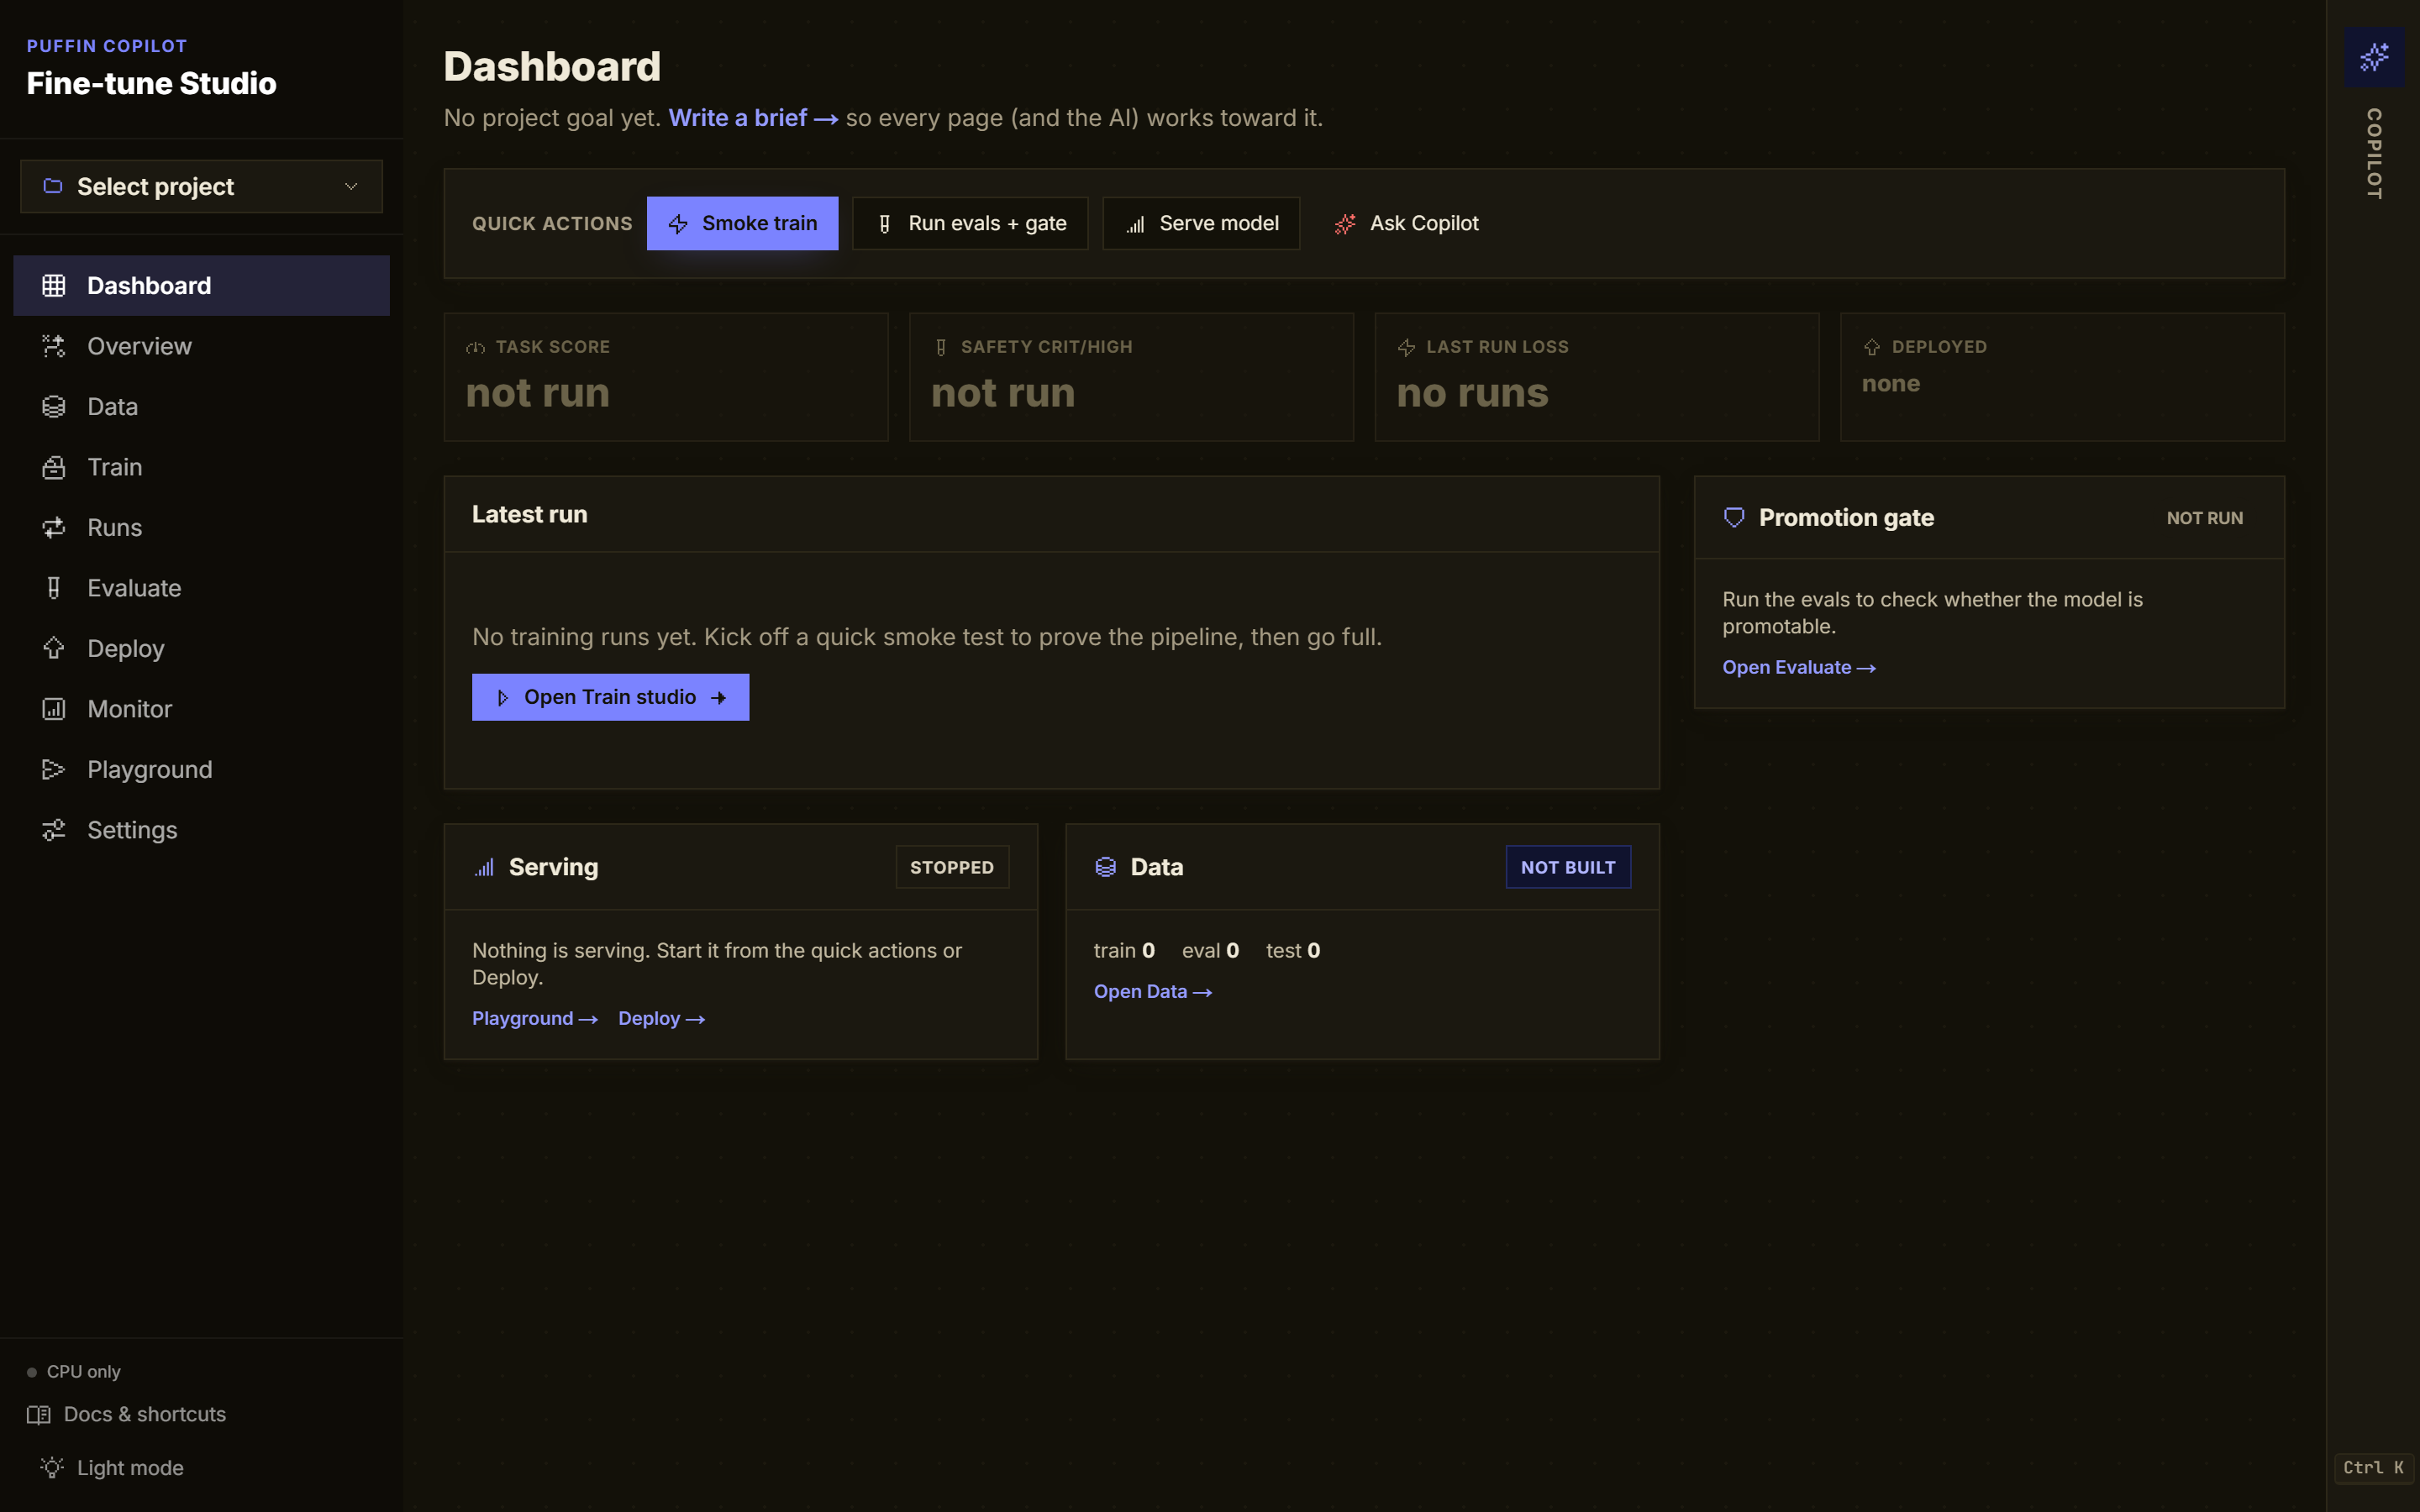
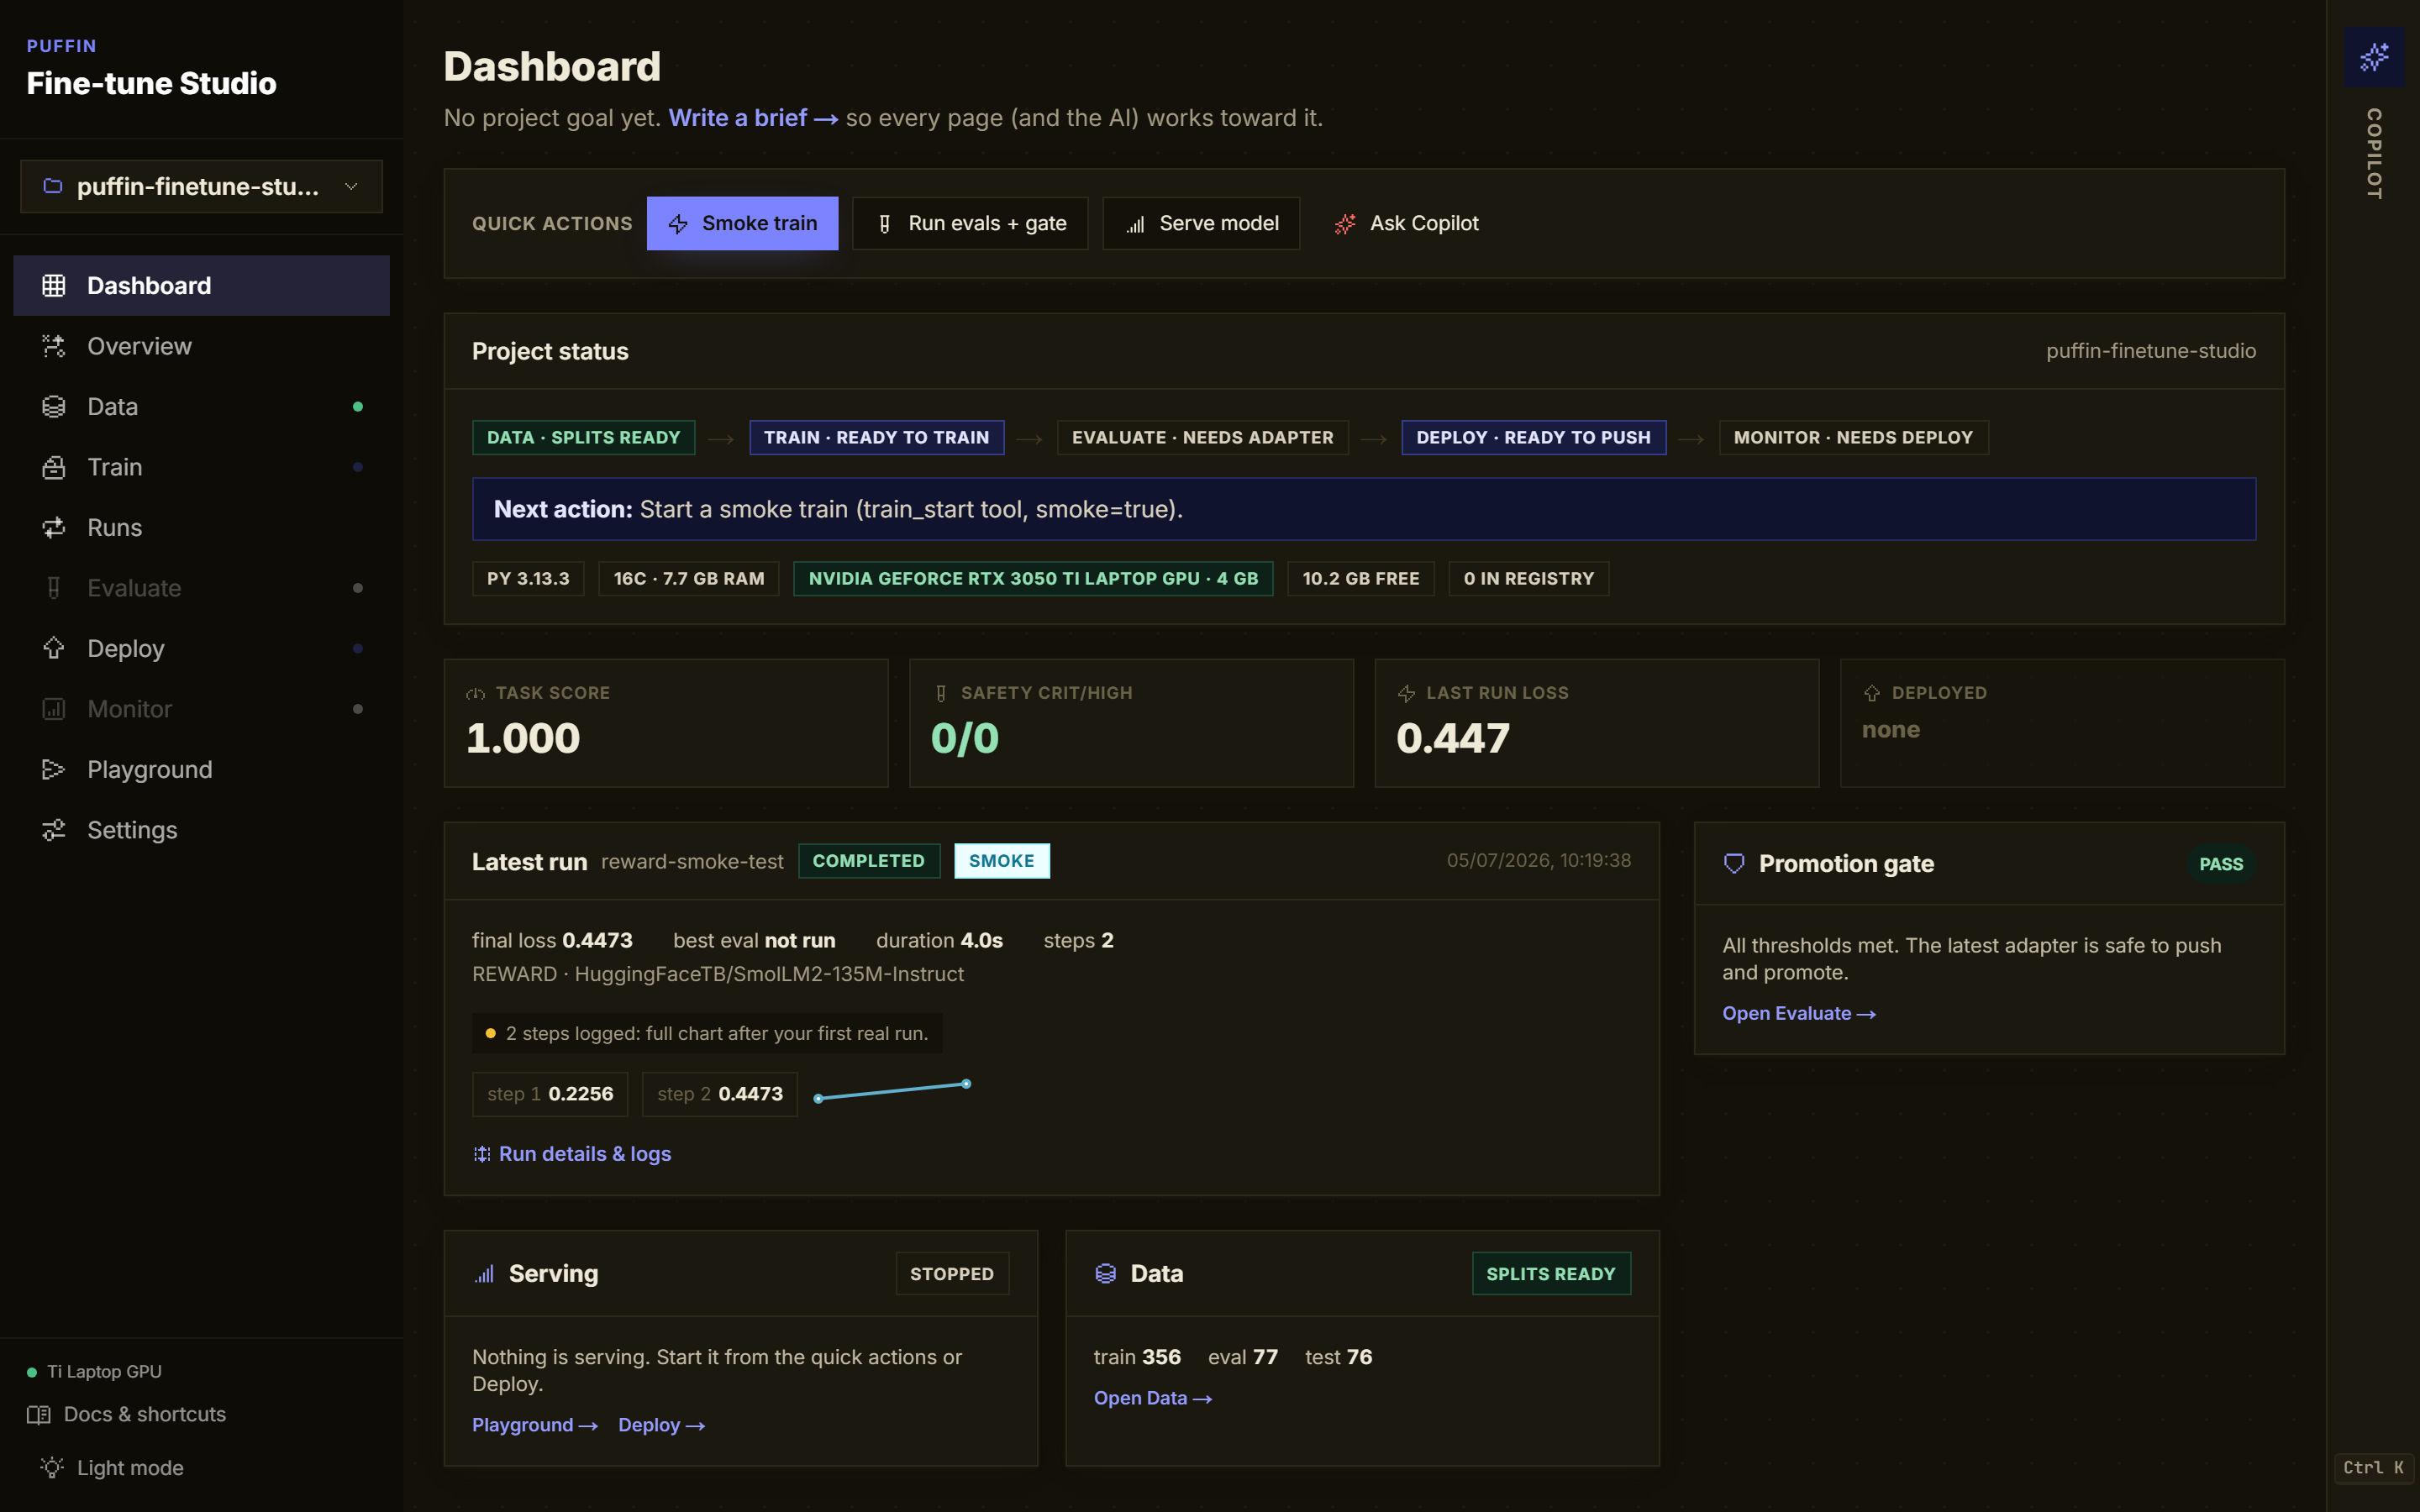
brand: rename the product to Puffin Studio (AI chat stays "Copilot")
- UI: sidebar eyebrow -> "Puffin", browser title + loading -> "Puffin Studio";
  chat assistant label + system prompt keep "Copilot".
- Backend: FastAPI title, launcher/main descriptions, and ready message ->
  Puffin Studio (console scripts unchanged).
- copilot/README retitled; prod smoke test asserts "Puffin Studio".
- Rebuilt static export + re-captured dashboard/train-studio/monitor
  screenshots with the new branding (dashboard now shows a real run).
- Bump version to 0.2.0; CHANGELOG entry.

diff --git a/copilot/frontend/components/layout/Sidebar.tsx b/copilot/frontend/components/layout/Sidebar.tsx
@@ -95,7 +95,7 @@ export function Sidebar() {
         </button>
         <div className="min-w-0">
           <div className="text-[9px] font-bold uppercase tracking-widest text-accent leading-none">
-            Puffin Copilot
+            Puffin
           </div>
           <div className="text-sm font-extrabold leading-tight text-white">Fine-tune Studio</div>
         </div>
@@ -125,7 +125,7 @@ export function Sidebar() {
       </button>
       <div className="px-4 py-5 border-b border-white/5">
         <div className="text-[10px] uppercase tracking-widest text-accent font-bold">
-          Puffin Copilot
+          Puffin
         </div>
         <div className="text-white font-extrabold text-lg leading-tight mt-1">
           Fine-tune Studio

diff --git a/copilot/frontend/app/layout.tsx b/copilot/frontend/app/layout.tsx
@@ -19,7 +19,7 @@ const oswald = Oswald({
 });
 
 export const metadata: Metadata = {
-  title: "Puffin Copilot: fine-tune any open LLM",
+  title: "Puffin Studio: fine-tune any open LLM",
   description: "AI-first dashboard and chat for the Puffin LLM fine-tuning platform.",
 };
 

diff --git a/copilot/frontend/app/page.tsx b/copilot/frontend/app/page.tsx
@@ -19,7 +19,7 @@ export default function Home() {
 
   return (
     <div className="flex min-h-[50vh] items-center justify-center text-ink-500">
-      <p className="font-display uppercase tracking-wide">Loading Puffin Copilot…</p>
+      <p className="font-display uppercase tracking-wide">Loading Puffin Studio…</p>
       {/* If JS is disabled the client redirect never fires; give a way through. */}
       <noscript>
         <a href="/dashboard/">Continue to the dashboard</a>

diff --git a/copilot/frontend/components/chat/ChatThread.tsx b/copilot/frontend/components/chat/ChatThread.tsx
@@ -85,7 +85,7 @@ function buildMarkdown(thread: ThreadSummary, messages: StoredMessage[]): string
     // Skip tool_result round-trip messages: the tool call line covers them.
     if (m.role === "user" && !text) continue;
     if (!text && toolUses.length === 0) continue;
-    lines.push(`## ${m.role === "user" ? "You" : "Puffin Copilot"}`, "");
+    lines.push(`## ${m.role === "user" ? "You" : "Copilot"}`, "");
     if (text) lines.push(text, "");
     for (const t of toolUses) {
       lines.push(`> 🔧 \`${t.name}(${JSON.stringify(t.input ?? {})})\``, "");

diff --git a/copilot/frontend/components/chat/Composer.tsx b/copilot/frontend/components/chat/Composer.tsx
@@ -287,7 +287,7 @@ export function Composer({
             ref={taRef}
             value={value}
             rows={1}
-            aria-label="Message Puffin Copilot"
+            aria-label="Message Copilot"
             onChange={(e) => updateValue(e.target.value)}
             onKeyDown={onKeyDown}
             disabled={disabled}

diff --git a/copilot/backend/launcher.py b/copilot/backend/launcher.py
@@ -1,4 +1,4 @@
-"""`finetune-copilot` - one command that opens the Puffin Copilot web UI.
+"""`finetune-copilot` - one command that opens the Puffin Studio web UI.
 
 This is the friendly front door to the whole platform. Typing::
 
@@ -590,7 +590,7 @@ def cmd_up(args: argparse.Namespace) -> int:
             return die(f"web UI {reason} - see logs above.")
 
         print()
-        info(_c("32", f"Puffin Copilot is ready -> {app_url}"))
+        info(_c("32", f"Puffin Studio is ready -> {app_url}"))
         if not args.no_browser:
             webbrowser.open(app_url)
         info("Press Ctrl+C to stop.")
@@ -629,7 +629,7 @@ def _add_common(sub: argparse.ArgumentParser) -> None:
 def _build_parser() -> argparse.ArgumentParser:
     parser = argparse.ArgumentParser(
         prog="finetune-copilot",
-        description="Open the Puffin Copilot web UI (backend + frontend, one command).",
+        description="Open Puffin Studio (backend + frontend web UI, one command).",
     )
     sub = parser.add_subparsers(dest="command")
 

diff --git a/copilot/backend/app.py b/copilot/backend/app.py
@@ -1,4 +1,4 @@
-"""FastAPI application for Puffin Copilot.
+"""FastAPI application for Puffin Studio.
 
 Endpoints (all JSON unless noted):
 
@@ -229,7 +229,7 @@ def create_app(
     # whatever host we bind. Disable them in that mode.
     serving_frontend = bool(s.frontend_dist and s.frontend_dist.exists())
     app = FastAPI(
-        title="Puffin Copilot", version="0.1.0", lifespan=lifespan,
+        title="Puffin Studio", version="0.1.0", lifespan=lifespan,
         docs_url=None if serving_frontend else "/docs",
         redoc_url=None if serving_frontend else "/redoc",
         openapi_url=None if serving_frontend else "/openapi.json",

diff --git a/copilot/backend/__init__.py b/copilot/backend/__init__.py
@@ -1,1 +1,1 @@
-"""FastAPI backend for Puffin Copilot."""
+"""FastAPI backend for Puffin Studio."""

diff --git a/copilot/backend/loop.py b/copilot/backend/loop.py
@@ -28,7 +28,7 @@ from copilot.backend.providers.base import Provider
 from copilot.backend.tools import ToolContext, registry
 
 
-DEFAULT_SYSTEM_PROMPT = """You are Puffin Copilot — an expert LLM fine-tuning \
+DEFAULT_SYSTEM_PROMPT = """You are the Puffin Studio copilot, an expert LLM fine-tuning \
 engineer embedded in the Puffin platform.
 
 Your job is to help the user get a model trained, evaluated, deployed, and \

diff --git a/copilot/backend/main.py b/copilot/backend/main.py
@@ -9,7 +9,7 @@ import sys
 def main() -> int:
     parser = argparse.ArgumentParser(
         prog="puffin-copilot",
-        description="Run the Puffin Copilot backend (FastAPI).",
+        description="Run the Puffin Studio backend (FastAPI).",
     )
     parser.add_argument("--host", default=None,
                         help="Override PUFFIN_COPILOT_HOST (default 127.0.0.1).")

diff --git a/tests/copilot/test_launcher.py b/tests/copilot/test_launcher.py
@@ -204,7 +204,7 @@ def test_prod_landing_is_not_error_shell(tmp_path):
         r = client.get("/dashboard/")
         assert r.status_code == 200
         assert "__next_error__" not in r.text
-        assert "Puffin Copilot" in r.text
+        assert "Puffin Studio" in r.text
 
         # And a hard load of "/" must also be a clean document, not the shell.
         root = client.get("/", follow_redirects=True)

diff --git a/copilot/README.md b/copilot/README.md
@@ -1,12 +1,13 @@
-# Puffin Copilot
+# Puffin Studio
 
-**AI-first dashboard + chat for the Puffin LLM fine-tuning platform.**
+**The web studio for the Puffin LLM fine-tuning platform: a dashboard plus an AI copilot.**
 
-A native React/Next.js app whose primary surface is a chat with your choice
-of AI backend - the Anthropic/OpenAI APIs or any local agent CLI (Claude
-Code, Codex, Gemini, Qwen, OpenCode, Cursor, Copilot). The assistant has
-direct tool-use access to the entire `llmops.*` codebase: it can read your
-data, run training, evaluate, deploy, and watch monitoring - all by calling
+A native React/Next.js app for the whole fine-tuning lifecycle (data, train,
+evals, deploy, monitor) as pages you click through, with a built-in **copilot**
+chat. Pick your AI backend for the chat - the Anthropic/OpenAI APIs or any local
+agent CLI (Claude Code, Codex, Gemini, Qwen, OpenCode, Cursor, Copilot). The
+copilot has direct tool-use access to the entire `llmops.*` codebase: it can read
+your data, run training, evaluate, deploy, and watch monitoring, all by calling
 typed Python functions you've defined as tools.
 
 ```